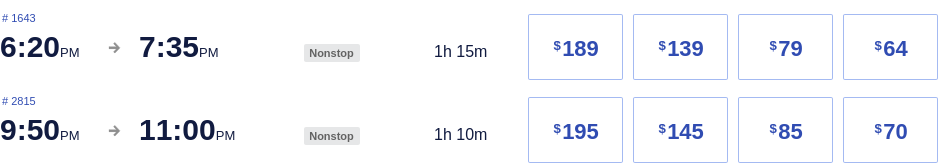
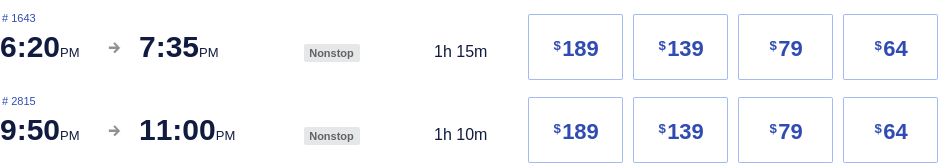
Latest scraping states: Fri Aug  4 10:52:14 UTC 2023

diff --git a/scrapes/states/southwest-01-04.md b/scrapes/states/southwest-01-04.md
@@ -20,7 +20,7 @@
     
     1h 10m
     
-    70 Dollars$70
+    64 Dollars$64
     
 
 ![](southwest-01-04.png)

diff --git a/scrapes/states/southwest-01-05.md b/scrapes/states/southwest-01-05.md
@@ -34,7 +34,7 @@
     
     99 Dollars$99
     
-    5 left
+    3 left
     
 
 ![](southwest-01-05.png)
